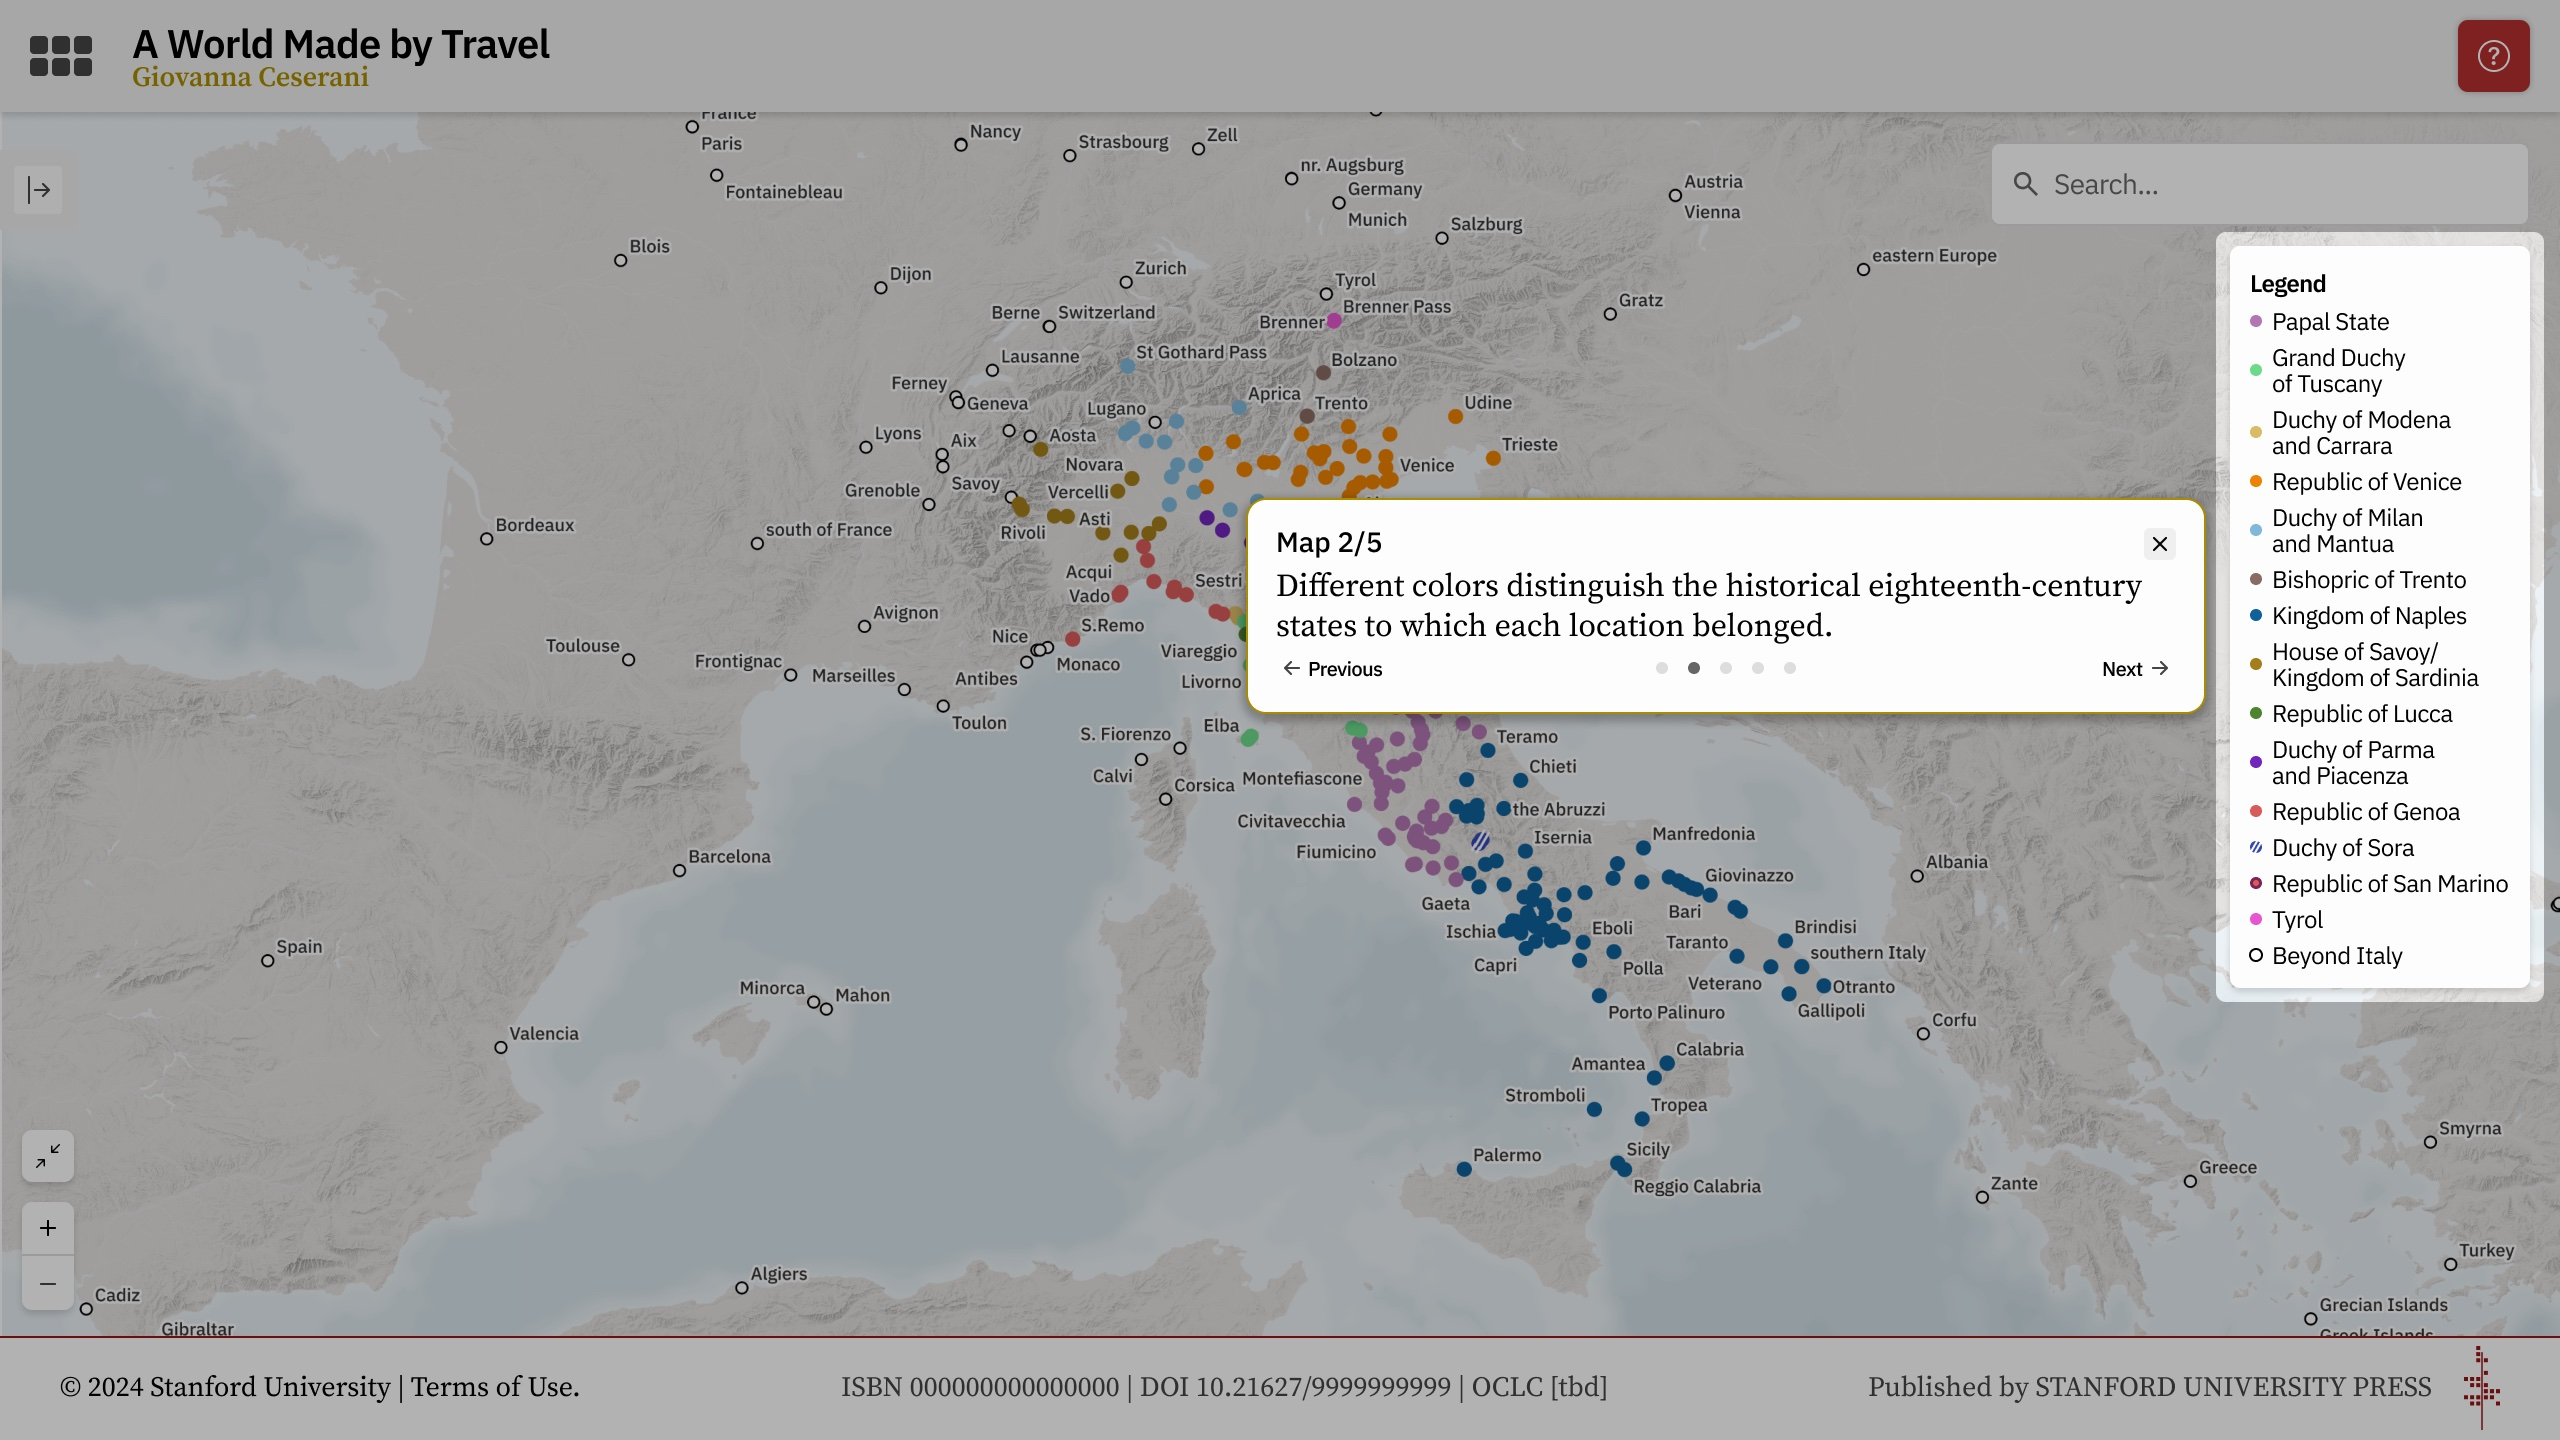
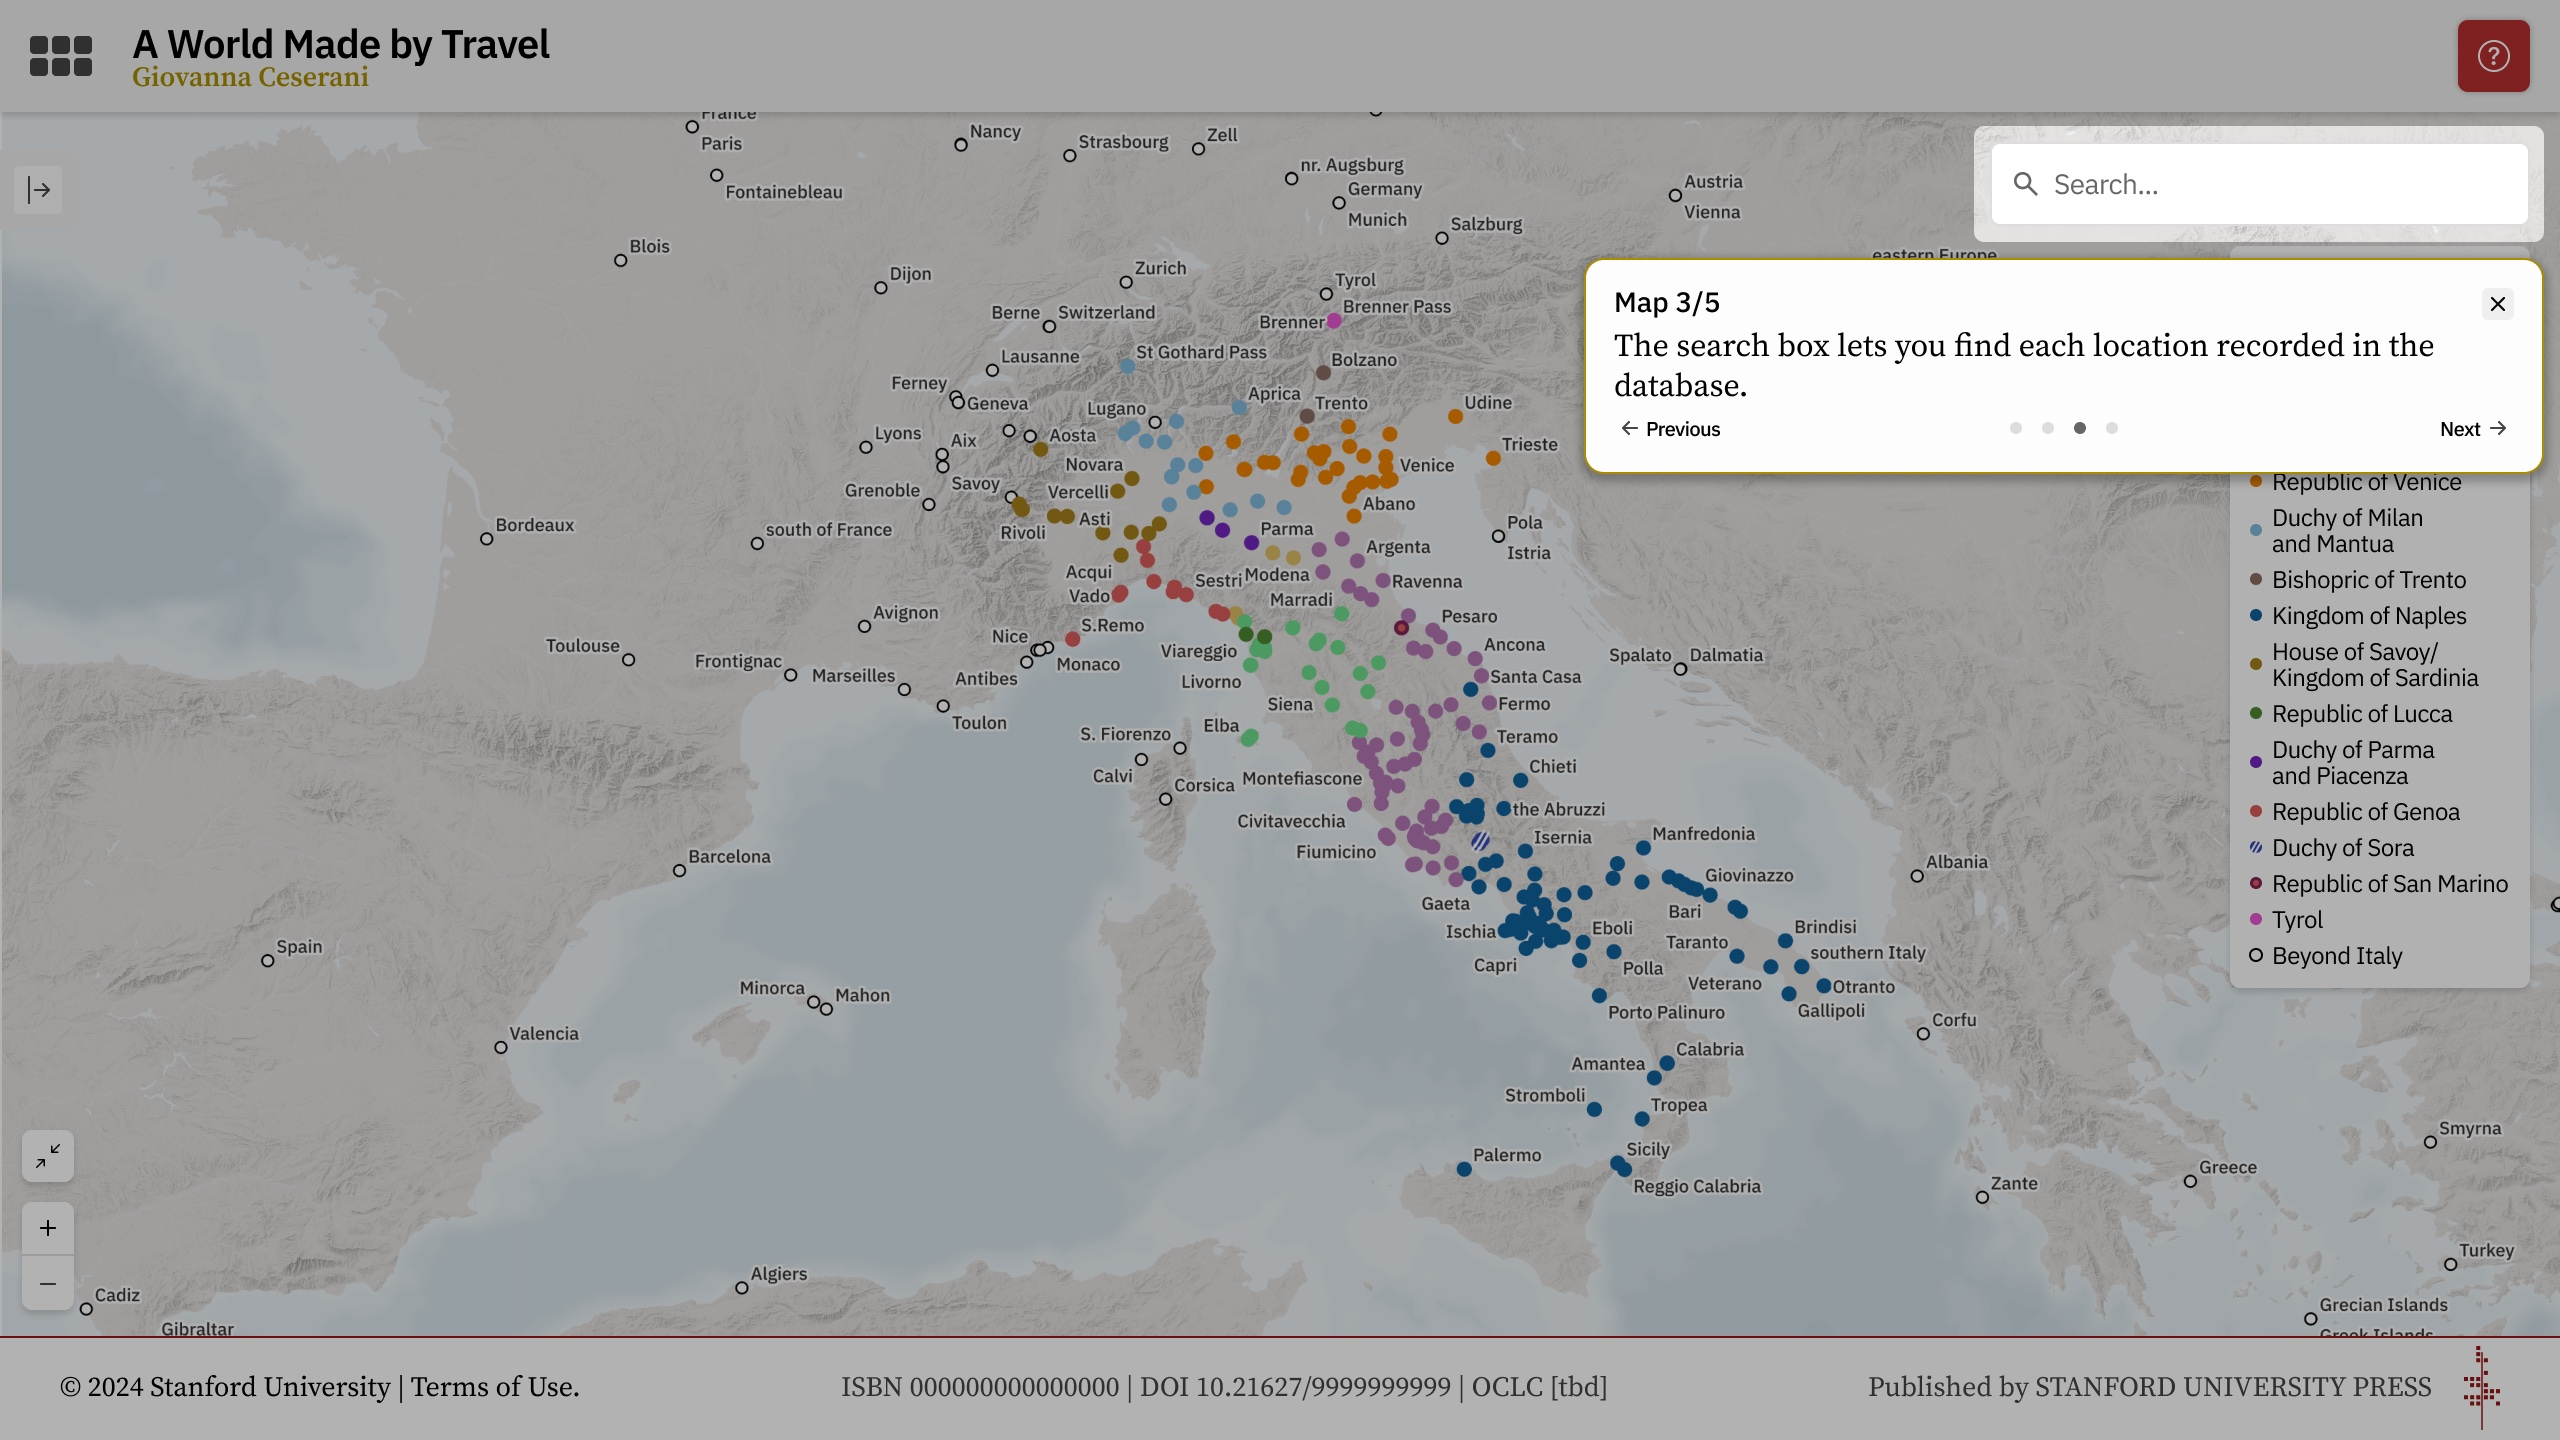
Add tutorial

Changed region(s): [[0.4688, 0.0625, 1.0, 0.7188]]

diff --git a/public/app.module.ajs.ts b/public/app.module.ajs.ts
@@ -100,6 +100,86 @@ const MODULE_NAME = 'app';
       $state.go('login')
     };
 
+    $rootScope.tutorialSteps = function() {
+        return {
+          'entry': [
+            {src: 'tutorials/entry-1.jpg', prev: ['87%', '32%'], close: ['64%', '66%'], next: ['87%', '62.5%']},
+            {src: 'tutorials/entry-2.jpg', prev: ['47%', '30.5%'], close: ['29.5%', '64.75%'], next: ['47%', '62.5%']},
+            {src: 'tutorials/entry-3.jpg', prev: ['47%', '32%'], close: ['29.5%', '66%'], next: ['47%', '62.5%']},
+            {src: 'tutorials/entry-4.jpg', prev: ['88%', '31%'], close: ['76%', '65%'], next: ['88%', '61.5%']},
+            {src: 'tutorials/entry-5.jpg', prev: ['62%', '33.5%'], close: ['47.5%', '67.5%'], next: ['62%', '64.5%']},
+            {src: 'tutorials/entry-6.jpg', prev: ['88%', '33.5%'], close: ['73.5%', '67.5%'], next: ['88%', '64.5%']},
+            {src: 'tutorials/entry-7.jpg', prev: ['87%', '31%'], close: ['75%', '65%'], next: ['87%', '62%']},
+            {src: 'tutorials/entry-8.jpg', prev: ['16.5%', '63%'], close: ['10.5%', '96.5%'], next: ['16.5%', '93%']},
+          ],
+          'map': [
+            {src: 'tutorials/map-1.jpg', prev: ['82%', '32%'], close: ['70%', '66%'], next: ['82%', '62.5%']},
+            {src: 'tutorials/map-2.jpg', prev: ['45%', '49.5%'], close: ['36%', '83.5%'], next: ['45%', '80%']},
+            {src: 'tutorials/map-3.jpg', prev: ['28.5%', '62.5%'], close: ['19.5%', '96.5%'], next: ['28.5%', '93%']},
+            {src: 'tutorials/map-4.jpg', prev: ['80%', '36%'], close: ['68.5%', '70.25%'], next: ['80%', '67%']},
+            {src: 'tutorials/map-5.jpg', prev: ['16.5%', '62.5%'], close: ['10.5%', '96.5%'], next: ['16.5%', '93%']},
+          ],
+          'chart': [
+            {src: 'tutorials/chart-1.jpg', prev: ['42%', '32%'], close: ['33.5%', '66%'], next: ['42%', '62.5%']},
+            {src: 'tutorials/chart-2.jpg', prev: ['28%', '18.5%'], close: ['19.5%', '52.5%'], next: ['28%', '48.5%']},
+            {src: 'tutorials/chart-3.jpg', prev: ['39.5%', '33.5%'], close: ['25.5%', '67.5%'], next: ['39.5%', '64%']},
+            {src: 'tutorials/chart-4.jpg', prev: ['16.5%', '62.5%'], close: ['10.5%', '96.5%'], next: ['16.5%', '93%']},
+          ],
+          'search': [
+            {src: 'tutorials/search-1.jpg', prev: ['49%', '22%'], close: ['37%', '55.75%'], next: ['49%', '52%']},
+            {src: 'tutorials/search-2.jpg', prev: ['41.5%', '30%'], close: ['30%', '64.25%'], next: ['41.5%', '61%']},
+            {src: 'tutorials/search-3.jpg', prev: ['61.5%', '33.5%'], close: ['50%', '67.5%'], next: ['61.5%', '64%']},
+            {src: 'tutorials/search-4.jpg', prev: ['13.5%', '62.5%'], close: ['7.5%', '96.5%'], next: ['13.5%', '93%']},
+          ],
+          'explore': [
+            {src: 'tutorials/explore-1.jpg', prev: ['43%', '10.3%'], close: ['31%', '44.5%'], next: ['43%', '41%']},
+            {src: 'tutorials/explore-2.jpg', prev: ['24.5%', '26%'], close: ['10%', '59.5%'], next: ['24.5%', '58%']},
+            {src: 'tutorials/explore-3.jpg', prev: ['28%', '42%'], close: ['13.5%', '75.75%'], next: ['28%', '72%']},
+            {src: 'tutorials/explore-4.jpg', prev: ['24.5%', '58%'], close: ['13%', '91.5%'], next: ['24.5%', '88%']},
+            {src: 'tutorials/explore-5.jpg', prev: ['41%', '32%'], close: ['18%', '66%'], next: ['41%', '62%']},
+            {src: 'tutorials/explore-6.jpg', prev: ['17%', '62%'], close: ['8%', '96%'], next: ['17%', '92%']},
+          ],
+      }[$state.current.name] || [];
+    }
+
+    $rootScope.showTutorial = function(e) {
+      e.preventDefault();
+      $rootScope.tutorialShown = true;
+      $rootScope.tutorialStep = 1;
+      return false;
+    }
+
+    $rootScope.hideTutorial = function(e) {
+      e.preventDefault();
+      $rootScope.tutorialShown = false;
+      $rootScope.tutorialStep = 1;
+      return false;
+    }
+
+    $rootScope.tutorialNext = function(e) {
+      e.preventDefault();
+      if ($rootScope.tutorialStep >= $rootScope.tutorialSteps().length) {
+        $rootScope.tutorialShown = false;
+      } else {
+        $rootScope.tutorialStep++;
+      }
+      return false;
+    }
+
+    $rootScope.tutorialPrevious = function(e) {
+      e.preventDefault();
+      if ($rootScope.tutorialStep <= 1) {
+        $rootScope.tutorialShown = false;
+      } else {
+        $rootScope.tutorialStep--;
+      }
+      return false;
+    }
+
+    $rootScope.getCurrent = function() {
+      return $state.current && $state.current.name;
+    }
+
 
     /*
     * Sets the page title based on the current route.
